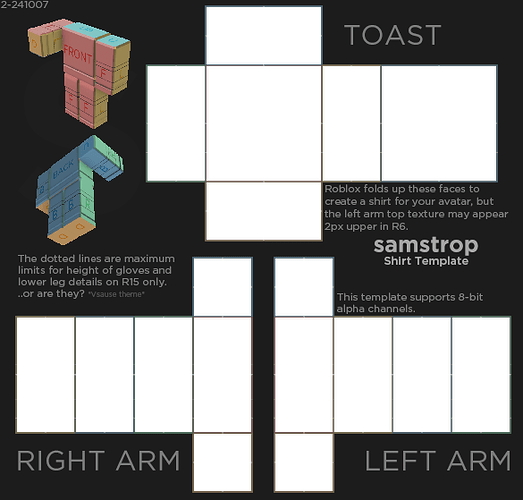
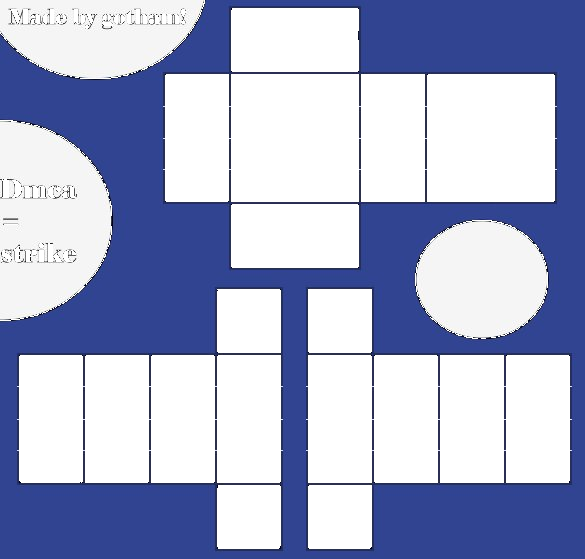
update template and fix quality

diff --git a/index.js b/index.js
@@ -16,7 +16,6 @@ const client = new Client({
 
 const PREFIX = '!';
 
-// Download image from URL to buffer
 function downloadImage(url) {
   return new Promise((resolve, reject) => {
     const protocol = url.startsWith('https') ? https : http;
@@ -29,25 +28,23 @@ function downloadImage(url) {
   });
 }
 
-// Overlay user image onto template
 async function applyTemplate(userImageBuffer, templatePath) {
-  // Load template (must be PNG with transparency)
   const template = await Jimp.read(templatePath);
   const templateW = template.bitmap.width;
   const templateH = template.bitmap.height;
 
-  // Load user image and resize to match template
+  // Load user image and resize to EXACTLY match template size (high quality)
   const userImage = await Jimp.read(userImageBuffer);
-  userImage.resize(templateW, templateH);
+  userImage.resize(templateW, templateH, Jimp.RESIZE_BICUBIC);
 
-  // Composite: user image goes UNDER the template
-  // So template's opaque parts show on top, transparent parts reveal user image
+  // Composite template ON TOP of user image
   userImage.composite(template, 0, 0, {
     mode: Jimp.BLEND_SOURCE_OVER,
     opacitySource: 1,
     opacityDest: 1,
   });
 
+  // Output at full quality PNG (no compression loss)
   return await userImage.getBufferAsync(Jimp.MIME_PNG);
 }
 
@@ -64,26 +61,20 @@ client.on('messageCreate', async (message) => {
 
   if (command !== 'shirt' && command !== 'pants') return;
 
-  // Determine which template to use
   const templateFile = command === 'shirt' ? 'shirt_template.png' : 'pants_template.png';
   const templatePath = path.join(__dirname, 'templates', templateFile);
 
-  // Check template exists
   if (!fs.existsSync(templatePath)) {
     return message.reply(
       `❌ Missing template file \`templates/${templateFile}\`. Please add it to the \`templates/\` folder.`
     );
   }
 
-  // Check for attachment
   const attachment = message.attachments.first();
   if (!attachment) {
-    return message.reply(
-      `❌ Please attach an image! Example: \`!${command}\` with an image uploaded.`
-    );
+    return message.reply(`❌ Please attach an image! Example: \`!${command}\` with an image uploaded.`);
   }
 
-  // Make sure it's an image
   if (!attachment.contentType || !attachment.contentType.startsWith('image/')) {
     return message.reply('❌ That file doesn\'t look like an image. Please upload a PNG or JPG.');
   }